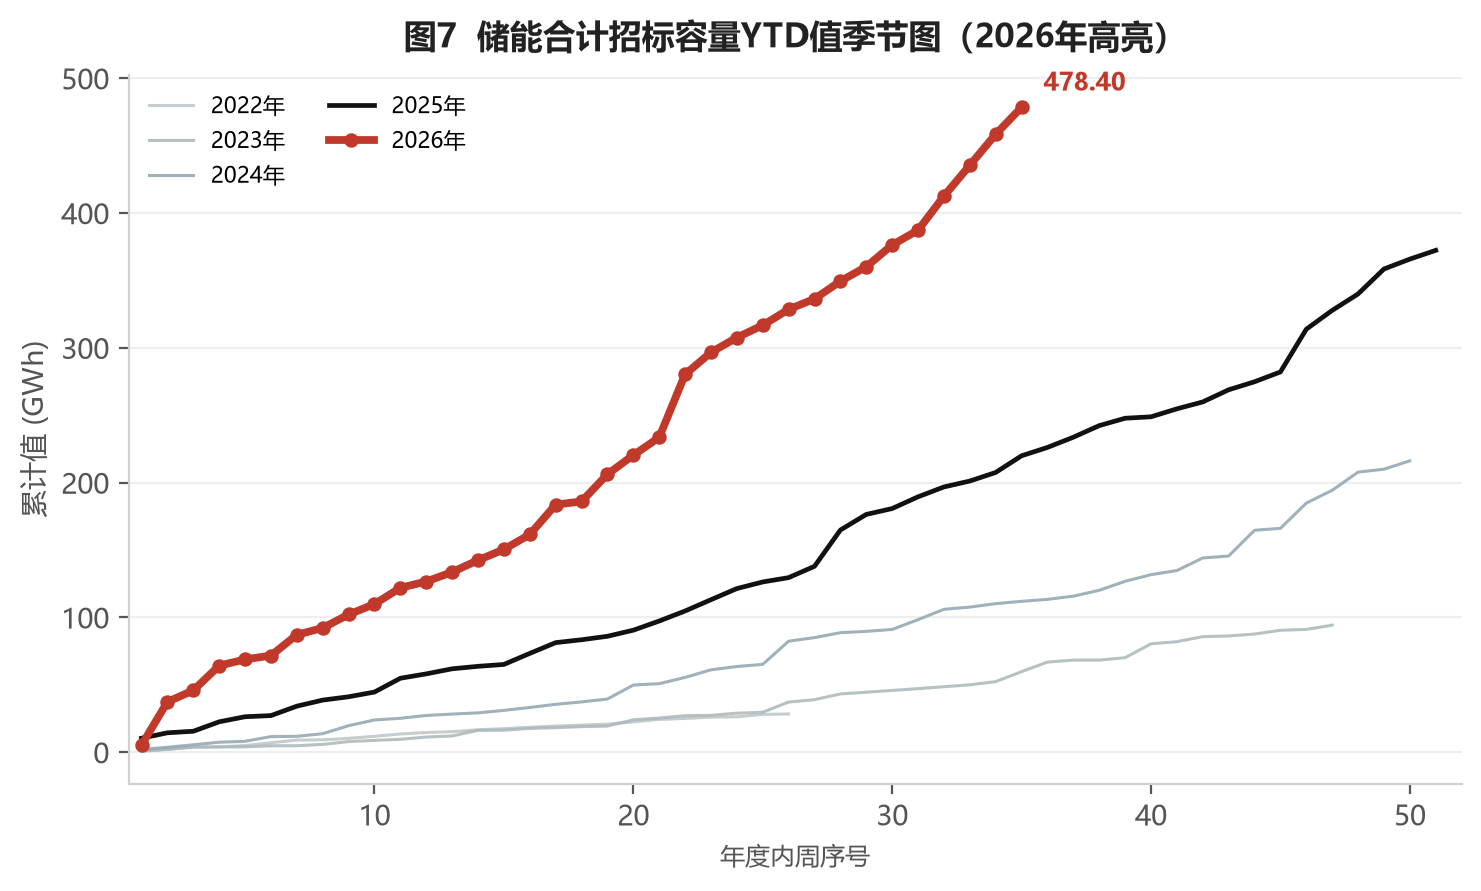
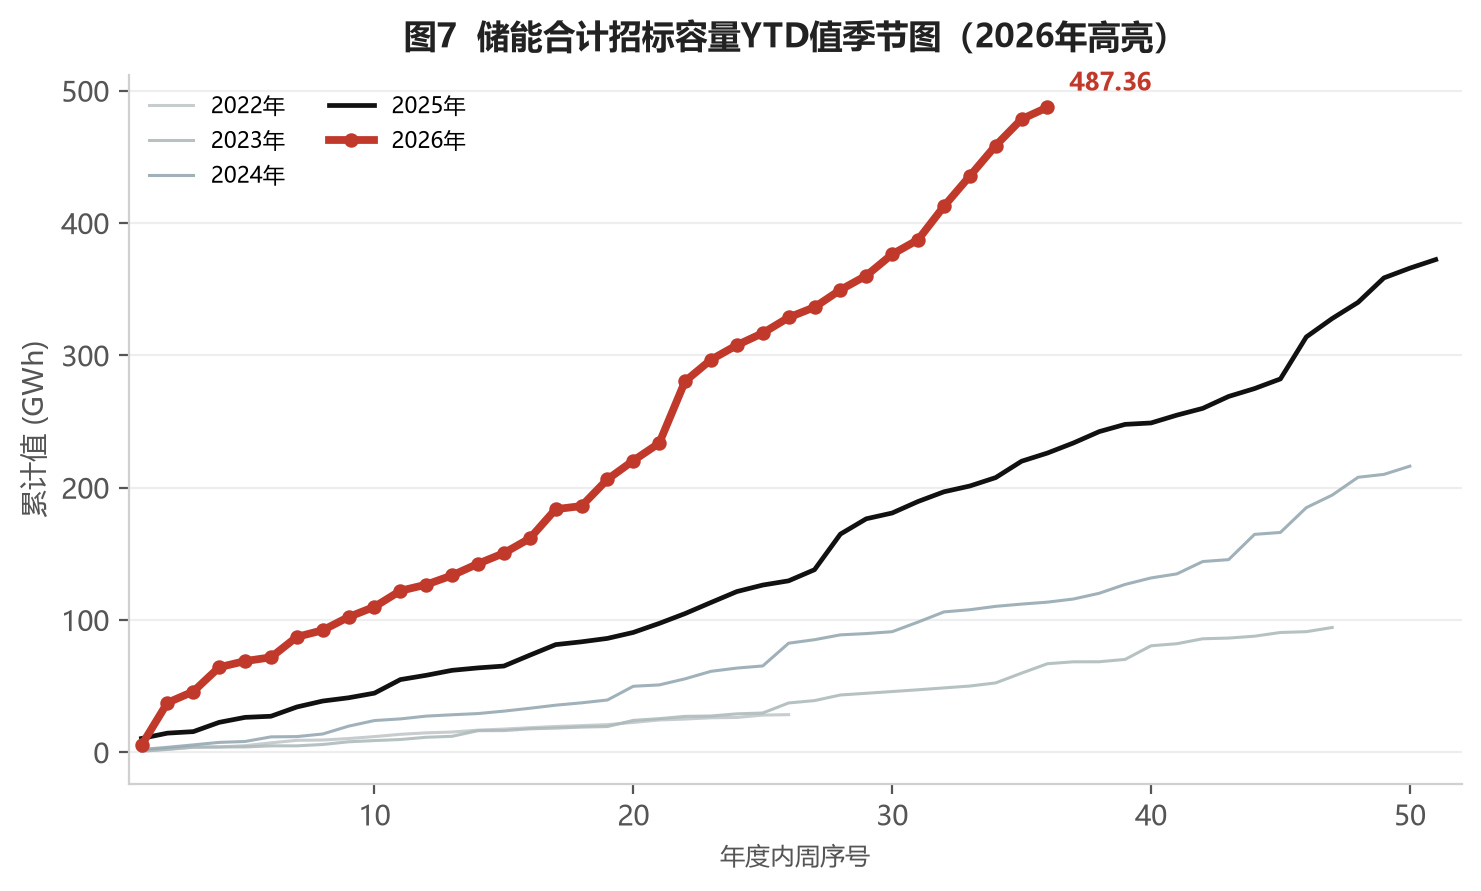
update weekly report 2026-09-13

diff --git a/docs/index.html b/docs/index.html
@@ -3,7 +3,7 @@
 <head>
 <meta charset="UTF-8" />
 <meta name="viewport" content="width=device-width, initial-scale=1.0" />
-<title>储能行业周报 · 储能招中标板块（2026-09-04）</title>
+<title>储能行业周报 · 储能招中标板块（2026-09-11）</title>
 <meta name="description" content="储能行业周度招中标数据报告：周度规模、累计规模、EPC/系统分项、中标价格走势。" />
 <style>
 :root {
@@ -52,13 +52,13 @@ footer{text-align:center;color:var(--muted);font-size:12px;padding:26px 0;
 <header class="hero">
   <div class="container">
     <h1>储能行业周报 · 储能招中标板块</h1>
-    <div class="meta">数据周期：2022-07-01 ~ 2026-09-04 · 本周：2026-08-29 至 2026-09-04（2026年第35周）· 共 209 周数据 · 生成于 2026-09-06 23:06:00</div>
+    <div class="meta">数据周期：2022-07-01 ~ 2026-09-11 · 本周：2026-09-05 至 2026-09-11（2026年第36周）· 共 210 周数据 · 生成于 2026-09-13 19:48:32</div>
   </div>
 </header>
 <div class="container">
     <section class="sec">
       <h2>一、中国|储能周度招中标</h2>
-      <div class="desc"><p class="d">本周：2026-08-29 至 2026-09-04</p><p class="d">招标项目 <b>39</b> 个，规模合计 <b>6.51</b>GW/<b>19.94</b>GWh，环比 <span class="chg down">-18.3%</span>/<span class="chg down">-13.5%</span>，同比 <span class="chg up">+41.2%</span>/<span class="chg up">+61.2%</span>。</p><p class="d">中标项目 <b>52</b> 个，规模合计 <b>6.06</b>GW/<b>19.49</b>GWh，环比 <span class="chg up">+11.4%</span>/<span class="chg up">+10.9%</span>，同比 <span class="chg up">+46.4%</span>/<span class="chg up">+40.6%</span>。</p></div>
+      <div class="desc"><p class="d">本周：2026-09-05 至 2026-09-11</p><p class="d">招标项目 <b>23</b> 个，规模合计 <b>3.32</b>GW/<b>8.96</b>GWh，环比 <span class="chg down">-48.9%</span>/<span class="chg down">-55.1%</span>，同比 <span class="chg up">+44.0%</span>/<span class="chg up">+44.6%</span>。</p><p class="d">中标项目 <b>31</b> 个，规模合计 <b>6.61</b>GW/<b>21.79</b>GWh，环比 <span class="chg up">+9.0%</span>/<span class="chg up">+11.8%</span>，同比 <span class="chg up">+89.1%</span>/<span class="chg up">+133.8%</span>。</p></div>
       <div class="charts">
       <figure class="fig"><img src="assets/images/fig_01.png" alt="图1：储能合计招标功率当周值季节图" loading="lazy" /></figure>
       <figure class="fig"><img src="assets/images/fig_02.png" alt="图2：储能合计中标功率当周值季节图" loading="lazy" /></figure>
@@ -69,7 +69,7 @@ footer{text-align:center;color:var(--muted);font-size:12px;padding:26px 0;
 
     <section class="sec">
       <h2>二、中国|储能周度招中标（累计）</h2>
-      <div class="desc"><p class="d">截至 2026-09-04</p><p class="d">招标累计规模 <b>141.38</b>GW/<b>478.40</b>GWh，环比 <span class="chg up">+4.8%</span>/<span class="chg up">+4.3%</span>，同比 <span class="chg up">+105.2%</span>/<span class="chg up">+117.6%</span>。</p><p class="d">中标累计规模 <b>150.34</b>GW/<b>587.12</b>GWh，环比 <span class="chg up">+4.2%</span>/<span class="chg up">+3.4%</span>，同比 <span class="chg up">+38.9%</span>/<span class="chg up">+47.6%</span>。</p></div>
+      <div class="desc"><p class="d">截至 2026-09-11</p><p class="d">招标累计规模 <b>144.70</b>GW/<b>487.36</b>GWh，环比 <span class="chg up">+2.4%</span>/<span class="chg up">+1.9%</span>，同比 <span class="chg up">+103.2%</span>/<span class="chg up">+115.6%</span>。</p><p class="d">中标累计规模 <b>156.95</b>GW/<b>608.90</b>GWh，环比 <span class="chg up">+4.4%</span>/<span class="chg up">+3.7%</span>，同比 <span class="chg up">+40.5%</span>/<span class="chg up">+49.6%</span>。</p></div>
       <div class="charts">
       <figure class="fig"><img src="assets/images/fig_05.png" alt="图5：储能合计招标功率YTD值季节图" loading="lazy" /></figure>
       <figure class="fig"><img src="assets/images/fig_06.png" alt="图6：储能合计中标功率YTD值季节图" loading="lazy" /></figure>
@@ -80,7 +80,7 @@ footer{text-align:center;color:var(--muted);font-size:12px;padding:26px 0;
 
     <section class="sec">
       <h2>三、储能EPC招中标规模（周度）</h2>
-      <div class="desc"><p class="d">本周：2026-08-29 至 2026-09-04</p><p class="d">储能EPC<b>招标</b>：<b>6.28</b>GW/<b>19.48</b>GWh，环比 <span class="chg up">+41.7%</span>/<span class="chg up">+66.2%</span>，同比 <span class="chg up">+46.7%</span>/<span class="chg up">+92.0%</span>；本年累计<b>招标</b> <b>116.17</b>GW/<b>320.63</b>GWh，同比 <span class="chg up">+117.0%</span>/<span class="chg up">+107.2%</span>。</p><p class="d">储能EPC<b>中标</b>：<b>5.15</b>GW/<b>16.23</b>GWh，环比 <span class="chg up">+1.6%</span>/<span class="chg up">+2.4%</span>，同比 <span class="chg up">+93.6%</span>/<span class="chg up">+96.0%</span>；本年累计<b>中标</b> <b>123.76</b>GW/<b>361.06</b>GWh，同比 <span class="chg up">+83.3%</span>/<span class="chg up">+89.2%</span>。</p></div>
+      <div class="desc"><p class="d">本周：2026-09-05 至 2026-09-11</p><p class="d">储能EPC<b>招标</b>：<b>2.47</b>GW/<b>6.14</b>GWh，环比 <span class="chg down">-60.7%</span>/<span class="chg down">-68.5%</span>，同比 <span class="chg up">+8.9%</span>/<span class="chg up">+1.1%</span>；本年累计<b>招标</b> <b>118.64</b>GW/<b>326.77</b>GWh，同比 <span class="chg up">+112.7%</span>/<span class="chg up">+103.2%</span>。</p><p class="d">储能EPC<b>中标</b>：<b>4.81</b>GW/<b>16.99</b>GWh，环比 <span class="chg down">-6.7%</span>/<span class="chg up">+4.7%</span>，同比 <span class="chg up">+61.7%</span>/<span class="chg up">+105.3%</span>；本年累计<b>中标</b> <b>128.57</b>GW/<b>378.05</b>GWh，同比 <span class="chg up">+82.4%</span>/<span class="chg up">+89.9%</span>。</p></div>
       <div class="charts cols4">
       <figure class="fig"><img src="assets/images/fig_09.png" alt="图9：储能EPC招标功率当周值季节图" loading="lazy" /></figure>
       <figure class="fig"><img src="assets/images/fig_10.png" alt="图10：储能EPC招标功率YTD值季节图" loading="lazy" /></figure>
@@ -95,7 +95,7 @@ footer{text-align:center;color:var(--muted);font-size:12px;padding:26px 0;
 
     <section class="sec">
       <h2>四、储能系统招中标规模（周度）</h2>
-      <div class="desc"><p class="d">本周：2026-08-29 至 2026-09-04</p><p class="d">储能系统<b>招标</b>：<b>0.23</b>GW/<b>0.46</b>GWh，环比 <span class="chg down">-93.5%</span>/<span class="chg down">-96.0%</span>，同比 <span class="chg down">-30.8%</span>/<span class="chg down">-79.5%</span>；本年累计<b>招标</b> <b>22.00</b>GW/<b>124.75</b>GWh，同比 <span class="chg up">+40.3%</span>/<span class="chg up">+91.5%</span>。</p><p class="d">储能系统<b>中标</b>：<b>0.91</b>GW/<b>3.26</b>GWh，环比 <span class="chg up">+145.7%</span>/<span class="chg up">+89.5%</span>，同比 <span class="chg down">-38.5%</span>/<span class="chg down">-41.6%</span>；本年累计<b>中标</b> <b>23.84</b>GW/<b>180.92</b>GWh，同比 <span class="chg down">-41.6%</span>/<span class="chg down">-19.9%</span>。</p></div>
+      <div class="desc"><p class="d">本周：2026-09-05 至 2026-09-11</p><p class="d">储能系统<b>招标</b>：<b>0.85</b>GW/<b>2.82</b>GWh，环比 <span class="chg up">+274.2%</span>/<span class="chg up">+516.7%</span>，同比 <span class="chg up">+1985.4%</span>/<span class="chg up">+2211.5%</span>；本年累计<b>招标</b> <b>22.86</b>GW/<b>127.57</b>GWh，同比 <span class="chg up">+45.3%</span>/<span class="chg up">+95.5%</span>。</p><p class="d">储能系统<b>中标</b>：<b>1.80</b>GW/<b>4.80</b>GWh，环比 <span class="chg up">+97.8%</span>/<span class="chg up">+47.2%</span>，同比 <span class="chg up">+245.3%</span>/<span class="chg up">+359.3%</span>；本年累计<b>中标</b> <b>25.64</b>GW/<b>185.72</b>GWh，同比 <span class="chg down">-38.0%</span>/<span class="chg down">-18.2%</span>。</p></div>
       <div class="charts cols4">
       <figure class="fig"><img src="assets/images/fig_17.png" alt="图17：储能系统招标功率当周值季节图" loading="lazy" /></figure>
       <figure class="fig"><img src="assets/images/fig_18.png" alt="图18：储能系统招标功率YTD值季节图" loading="lazy" /></figure>
@@ -110,7 +110,7 @@ footer{text-align:center;color:var(--muted);font-size:12px;padding:26px 0;
 
     <section class="sec">
       <h2>五、储能价格（周度）</h2>
-      <div class="desc"><p class="d">本周：2026-08-29 至 2026-09-04</p><p class="d">储能EPC中标报价区间：【<b>0.6780</b>-<b>1.6849</b>】元/Wh，储能EPC中标均价 <b>1.0259</b> 元/Wh（环比 <span class="chg down">-0.1%</span>，同比 <span class="chg up">+14.0%</span>）。</p><p class="d">储能系统中标报价区间：【<b>0.5355</b>-<b>0.6199</b>】元/Wh，储能系统中标均价 <b>0.5581</b> 元/Wh（环比 <span class="chg down">-17.1%</span>，同比 <span class="chg up">+13.9%</span>）。</p></div>
+      <div class="desc"><p class="d">本周：2026-09-05 至 2026-09-11</p><p class="d">储能EPC中标报价区间：【<b>0.5760</b>-<b>1.6056</b>】元/Wh，储能EPC中标均价 <b>0.8632</b> 元/Wh（环比 <span class="chg down">-15.9%</span>，同比 <span class="chg down">-16.0%</span>）。</p><p class="d">储能系统中标报价区间：【<b>0.5180</b>-<b>1.0600</b>】元/Wh，储能系统中标均价 <b>0.6792</b> 元/Wh（环比 <span class="chg up">+21.7%</span>，同比 <span class="chg down">-27.0%</span>）。</p></div>
       <div class="charts">
       <figure class="fig"><img src="assets/images/fig_25.png" alt="图25：储能系统中标均价季节图" loading="lazy" /></figure>
       <figure class="fig"><img src="assets/images/fig_26.png" alt="图26：储能EPC中标均价季节图" loading="lazy" /></figure>
